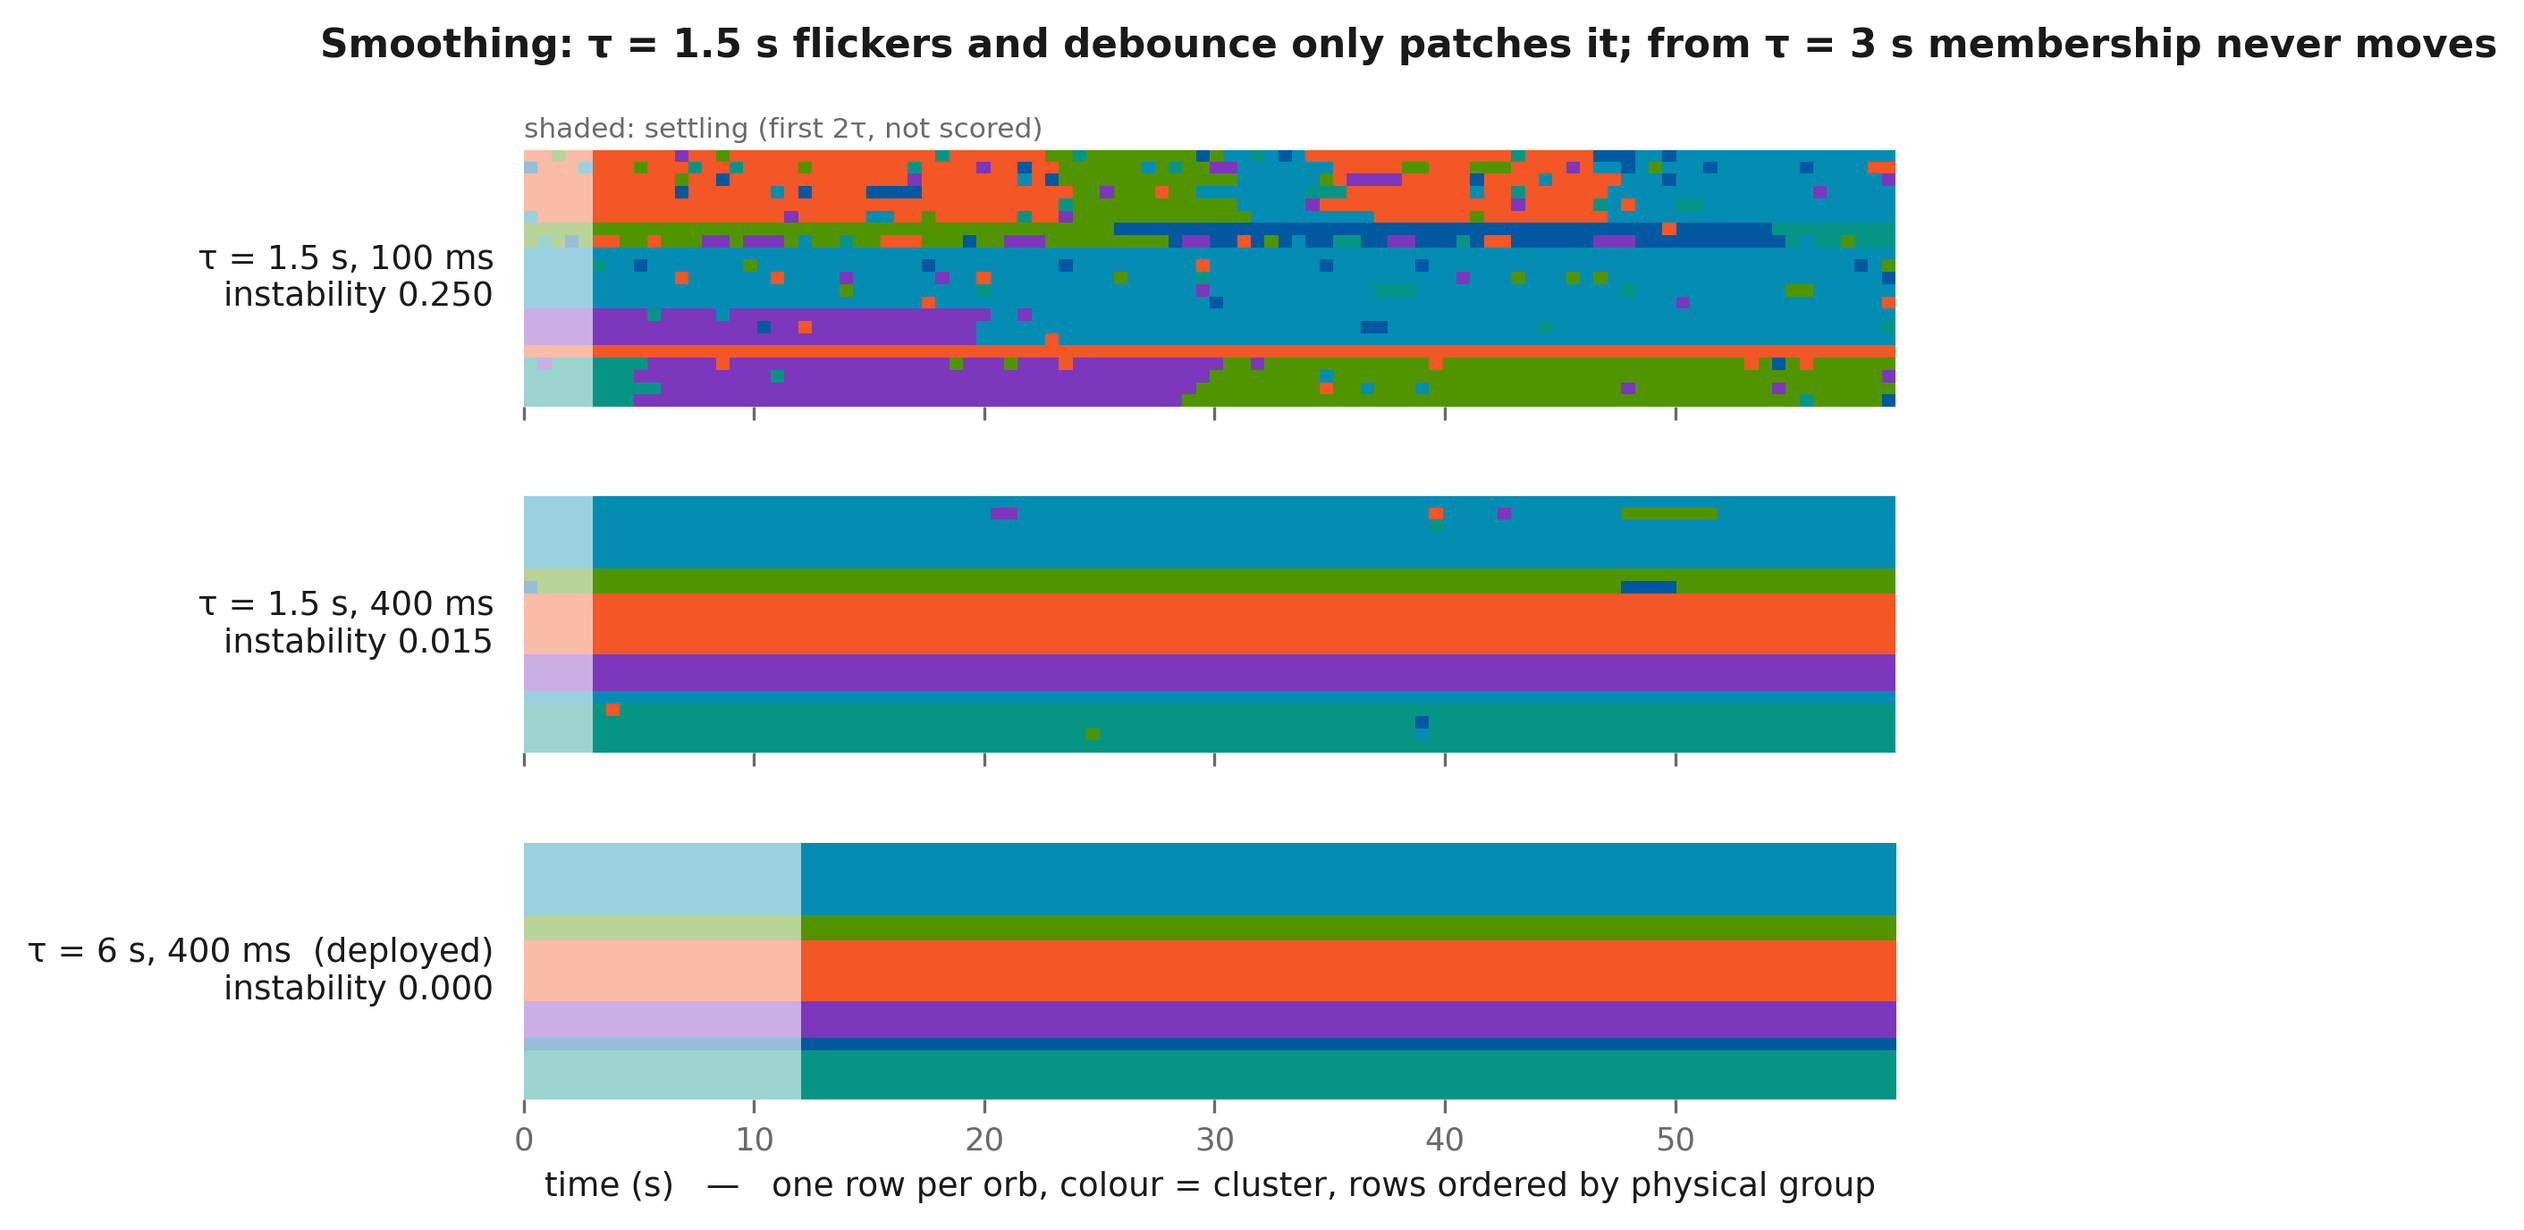
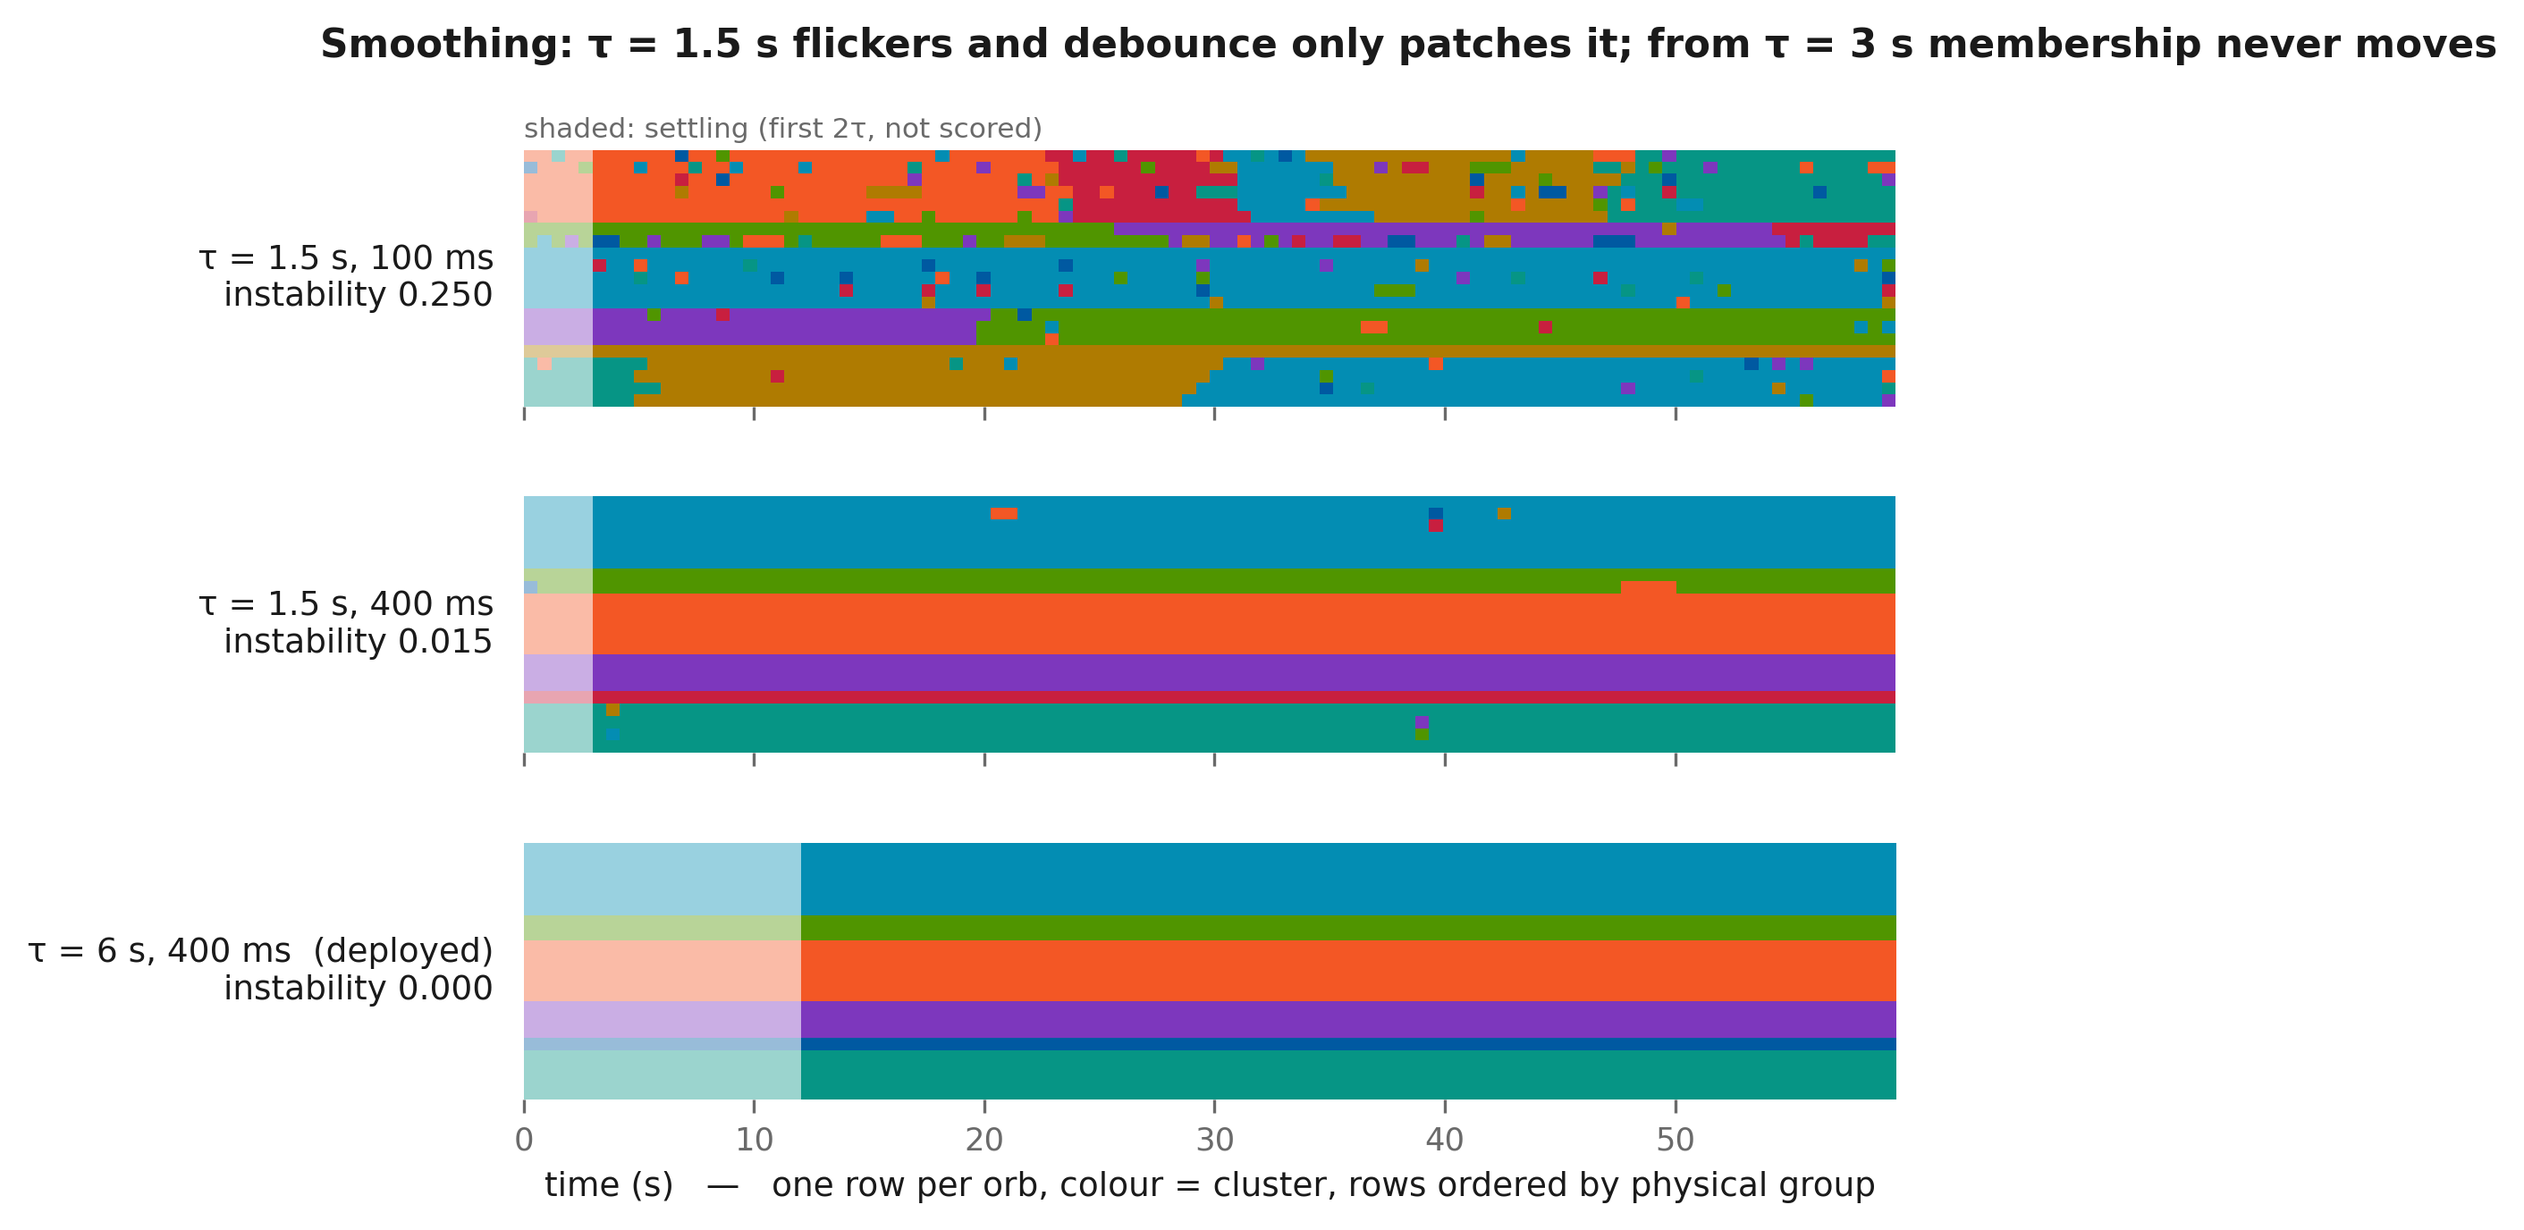
figures: handover raster and walk trace regenerate from the released E6/E7 data

diff --git a/tools/make_calibration_figs.py b/tools/make_calibration_figs.py
@@ -20,7 +20,8 @@ import matplotlib.image as mpimg
 SKY, CORAL, TEAL, PURPLE, GREEN6, NAVY, AMBER, CRIMSON = ("#038DB3", "#F35725", "#069585", "#7D37BD",
                                                       "#509500", "#0059A1", "#AF7B01", "#C81F3F")
 BLUE, VERM, GREEN, PURP = SKY, CORAL, TEAL, PURPLE          # role aliases used throughout
-RASTER6 = [SKY, CORAL, TEAL, PURPLE, GREEN6, NAVY]           # validated adjacent order
+RASTER8 = [SKY, CORAL, TEAL, PURPLE, GREEN6, NAVY, CRIMSON, AMBER]   # all eight logo faces; validated adjacent order, worst dE 8.9
+RASTER6 = RASTER8
 INK, MUTED, GRID = "#1a1a1a", "#6A6A6A", "#d8d8d8"           # MUTED is the logo's wordmark grey
 D = "data/calibration-2026"
 OUT = f"{D}/figs"
@@ -388,7 +389,7 @@ def fig_mds_embed(frame_index=12):
     """Same frame, two fits: classical MDS on the geodesic-filled matrix vs SMACOF on
     measured pairs only. Points coloured by the as-built physical group; hulls per group."""
     import sys
-    sys.path.insert(0, "visualiser"); sys.path.insert(0, "tools")  # public tree has both
+    sys.path.insert(0, "visualiser"); sys.path.insert(0, "tools")
     import mds_layout as M, mds_smacof as MS
     truth = json.load(open(f"{D}/E1_runs/truth_E1_4grp_wide_passA.json"))["as_built_serial_to_cluster"]
     path = f"{D}/topk_1782827542.jsonl"
@@ -483,8 +484,8 @@ def fig_e3_raster(cells=((1.5, 100, "τ = 1.5 s, 100 ms"), (1.5, 400, "τ = 1.5 
         # Okabe-Ito, all seven hues, ordered for maximum adjacent separation (validated);
         # transient singletons beyond seven wrap. Absent orbs are grey.
         from matplotlib.colors import ListedColormap
-        OI = ListedColormap(RASTER6)
-        ax.imshow(np.where(grid < 0, np.nan, grid % 6), aspect="auto", cmap=OI, interpolation="nearest", vmin=-0.5, vmax=5.5,
+        OI = ListedColormap(RASTER8)
+        ax.imshow(np.where(grid < 0, np.nan, grid % 8), aspect="auto", cmap=OI, interpolation="nearest", vmin=-0.5, vmax=7.5,
                   extent=[ts[0], ts[-1], len(orbs) - .5, -.5])
         ax.axvspan(ts[0], settle_end, color="white", alpha=0.6, lw=0)
         ax.set_yticks([]); ax.grid(False)
@@ -497,9 +498,208 @@ def fig_e3_raster(cells=((1.5, 100, "τ = 1.5 s, 100 ms"), (1.5, 400, "τ = 1.5 
     save(fig, "E3_raster.png")
 
 
+# ------------------------------------------------------------------ Endurance: a day in the life of the fleet
+def fig_endurance():
+    """Battery per orb over the 4 July festival day as a raster: one row per orb, 1-min
+    columns, colour = voltage (navy ramp), charging minutes overdrawn in amber. Thresholds
+    are the firmware's: deep sleep below 3.7 V when not charging, BATTERY_MIN 3.1 V."""
+    from matplotlib.colors import LinearSegmentedColormap
+    f = f"{D}/net_orb_festival_20260704.csv"
+    acc = {}; t0 = None
+    with open(f) as fh:
+        for row in csv.DictReader(fh):
+            try:
+                t = float(row["t_s"]); v = float(row["batt_v"]); ch = int(float(row["charging"]))
+            except Exception:
+                continue
+            if row["serial"].strip("0") == "" or v < 2.5: continue          # placeholder slot / no reading
+            t0 = t if t0 is None else t0
+            b = int((t - t0) // 60); e = acc.setdefault(row["serial"], {}).setdefault(b, [0.0, 0, 0])
+            e[0] += v; e[1] += 1; e[2] += ch
+    serials = sorted(acc, key=lambda k: min(acc[k]))          # first-out at the top
+    nb = max(max(d) for d in acc.values()) + 1
+    V = np.full((len(serials), nb), np.nan); C = np.zeros((len(serials), nb), bool)
+    for i, sN in enumerate(serials):
+        for b, (sv, n, sc) in acc[sN].items():
+            V[i, b] = sv / n; C[i, b] = sc / n > 0.5
+    fig, ax = plt.subplots(figsize=(7.2, 4.2))
+    cmap = LinearSegmentedColormap.from_list("batt", [CORAL, "#BFD9EA", NAVY])   # low = coral, full = navy; blank = not heard
+    im = ax.imshow(V, aspect="auto", cmap=cmap, vmin=3.2, vmax=4.2, interpolation="nearest",
+                   extent=[0, nb / 60, len(serials) - .5, -.5])
+    # charging minutes: amber overlay
+    ys, xs = np.where(C)
+    ax.scatter(xs / 60 + 1 / 120, ys, s=6, marker="s", color=AMBER, linewidths=0, zorder=3)
+    low = np.nanmin(V, axis=1)
+    ax.set_yticks(range(len(serials))); ax.set_yticklabels([f"{sN[-4:]}  {lo:.2f} V" for sN, lo in zip(serials, low)], fontsize=6.5)
+    ax.tick_params(axis="y", length=0)
+    ax.set_xlabel("time since first orb out (h)")
+    ax.set_title(f"A festival day: {len(serials)} orbs over {nb/60:.1f} h — blank = not heard (docked or asleep), amber = on charge", loc="left", fontsize=10)
+    cb = fig.colorbar(im, ax=ax, fraction=0.03, pad=0.01); cb.set_label("battery (V)   ·   3.7 V = deep sleep if not charging", fontsize=8); cb.ax.tick_params(labelsize=7)
+    cb.ax.axhline(3.7, color=INK, lw=1.5)
+    ax.grid(False)
+    for sp in ax.spines.values(): sp.set_visible(False)
+    save(fig, "endurance_keynsham.png")
+
+
+# ------------------------------------------------------------------ E4 as a per-orb fairness raster
+def fig_e4_fairness():
+    """Who starves. One row per orb, x = orbs in play as the sweep steps down, colour = that
+    orb's miss rate at that level. Fixed 50 Hz above, adaptive rate below."""
+    from matplotlib.colors import LinearSegmentedColormap
+    arms = [("fixed 50 Hz", "network_testing/captures/net_orb_1782915562_e4_fixed50.csv"),
+            ("adaptive rate", f"{D}/net_orb_e4_autorate.csv")]
+    data = {}
+    for lab, f in arms:
+        acc = {}
+        rows_iter = (row for path in f.split("|") for row in csv.DictReader(open(path)))
+        if True:
+            for row in rows_iter:
+                try:
+                    n = int(row["eligible_orbs"]); m = float(row["missed"])
+                except Exception:
+                    continue
+                if int(float(row.get("eligible", 1))) == 0: continue
+                e = acc.setdefault(row["serial"], {}).setdefault(n, [0.0, 0]); e[0] += m; e[1] += 1
+        data[lab] = acc
+    serials = sorted(set().union(*[set(d) for d in data.values()]))
+    levels = sorted(set().union(*[set(k for d in a.values() for k in d) for a in data.values()]))
+    cmap = LinearSegmentedColormap.from_list("miss", ["#F2F2F2", CORAL])
+    fig, axes = plt.subplots(2, 1, figsize=(7.0, 5.2), sharex=True, gridspec_kw=dict(hspace=0.25))
+    for ax, (lab, _) in zip(axes, arms):
+        acc = data[lab]; M = np.full((len(serials), len(levels)), np.nan)
+        for i, sN in enumerate(serials):
+            for j, n in enumerate(levels):
+                e = acc.get(sN, {}).get(n)
+                if e and e[1] >= 20: M[i, j] = e[0] / e[1]
+        im = ax.imshow(M, aspect="auto", cmap=cmap, vmin=0, vmax=1, interpolation="nearest",
+                       extent=[levels[0] - .5, levels[-1] + .5, len(serials) - .5, -.5])
+        mean = np.nanmean(M, axis=0)
+        ax.set_ylabel(f"{lab}\n({len(serials)} orbs, one row each)", fontsize=9)
+        ax.set_yticks([]); ax.grid(False)
+        for sp in ax.spines.values(): sp.set_visible(False)
+        ax.text(1.01, 0.5, f"mean miss at full fleet {np.nanmax(mean):.2f}", transform=ax.transAxes, fontsize=8, color=INK, va="center", rotation=90)
+    axes[-1].set_xlabel("orbs in play (sweep steps down from the full fleet)")
+    axes[-1].invert_xaxis()
+    cb = fig.colorbar(im, ax=axes, fraction=0.025, pad=0.06); cb.set_label("per-orb packet miss", fontsize=8); cb.ax.tick_params(labelsize=7)
+    fig.suptitle("Who starves: at 50 Hz the same orbs lose their feedback; the adaptive rate keeps every row pale",
+                 x=0.01, ha="left", fontsize=10.5, fontweight="bold")
+    save(fig, "E4_fairness.png")
+
+
+# ------------------------------------------------------------------ E7 as a walk
+def fig_e7_walk():
+    """One carried orb, two circuits of the three stations: strength to each anchor over
+    time, and the strongest anchor as a station strip beneath."""
+    import gzip as _gz
+    f = f"{D}/E7_runs/walks/walk_20260825-1616_0718a0_prox.csv.gz"
+    names = {"006dc4": ("left", SKY), "0069a4": ("right", CORAL), "006740": ("back", TEAL)}
+    series = {k: ([], []) for k in names}
+    for line in _gz.open(f, "rt"):
+        p = line.strip().split(",")
+        if len(p) < 4 or p[1] not in names: continue
+        try: series[p[1]][0].append(float(p[0])); series[p[1]][1].append(float(p[3]))
+        except Exception: pass
+    t0 = min(v[0][0] for v in series.values()); T_END = 230.0      # the two circuits; the orb is set down at "left" after
+    for k in series:
+        keep = [i for i, t in enumerate(series[k][0]) if t - t0 <= T_END]
+        series[k] = ([series[k][0][i] for i in keep], [series[k][1][i] for i in keep])
+    fig, (a, b) = plt.subplots(2, 1, figsize=(7.2, 3.8), sharex=True, gridspec_kw=dict(height_ratios=[3, 1], hspace=0.12))
+    for k, (lab, col) in names.items():
+        t = [x - t0 for x in series[k][0]]; y = series[k][1]
+        a.plot(t, y, "-", color=col, lw=1.4)
+        a.text(t[-1] + 2, y[-1] + {"left": 6, "right": -9, "back": 7}[lab], lab, color=col, fontsize=9, va="center", fontweight="bold")
+    a.axhspan(180, 255, color=GRID, alpha=0.4, lw=0); a.text(1, 246, "at-station band (180–226 in the notes)", fontsize=7.5, color=MUTED, va="top")
+    a.set_ylabel("link strength to each anchor"); a.set_ylim(100, 260)
+    a.set_title("A carried orb, two circuits of three stations: the strongest anchor names the station", loc="left")
+    tidy(a)
+    # station strip: argmax at each common timestamp
+    ts = sorted(set(series["006dc4"][0]) & set(series["0069a4"][0]) & set(series["006740"][0]))
+    look = {k: dict(zip(series[k][0], series[k][1])) for k in names}
+    keys = list(names); best = [max(keys, key=lambda k: look[k][t]) for t in ts]
+    cols = [names[k][1] for k in best]
+    b.bar([t - t0 for t in ts], [1] * len(ts), width=(ts[1] - ts[0]) * 1.05 if len(ts) > 1 else 1, color=cols, linewidth=0)
+    b.set_yticks([]); b.set_ylim(0, 1); b.grid(False)
+    for sp in b.spines.values(): sp.set_visible(False)
+    b.set_ylabel("station\n(argmax)", rotation=0, ha="right", va="center", fontsize=8)
+    b.set_xlabel("time (s)")
+    save(fig, "E7_walk.png")
+
+
+# ------------------------------------------------------------------ E6 as a handover raster
+def fig_e6_raster(run="e6_20260908-130607_c0_to_c3.jsonl.gz"):
+    """The server-loss event per orb: bands under the server, the broadcast gap as blank
+    columns, bands resuming standalone, then every row going dark at the 30 s sleep.
+    Membership reconstructed from the sniffer's per-orb peer views with the shipped
+    selector, exactly as e6_handover.py scores it."""
+    import sys
+    sys.path.insert(0, "tools")
+    import e6_handover as H
+    meta, _, frames = H.load(f"{D}/E6_runs/raw/{run}", exclude=frozenset(H.anchor_serials()))
+    import glob as _glob
+    stem = run.split("_", 2)[2].replace(".jsonl.gz", "")            # e.g. c0_to_c3
+    mfile = sorted(_glob.glob(f"{D}/E6_runs/e6_marks_{stem}_[0-9]*.json"))[-1]   # [0-9] so c0_to_c3 does not match c0_to_c3_wide
+    print(f"    marks from {mfile.split('/')[-1]}")
+    M = json.load(open(mfile)); cap0 = M["capture_started"]
+    mats = H.matrices(frames); parts = H.partitions(mats, floor=meta.get("floor", 200) if isinstance(meta, dict) else 200)
+    t0 = frames[0]["t"]
+    sers = sorted({s for _, ss, _ in mats for s in ss})
+    truth = json.load(open(f"{D}/E1_runs/E2_ground_truth.json"))
+    sers.sort(key=lambda k: (truth.get(k, 9), k))
+    ts = [p[0] - t0 for p in parts]
+    # labels per window: flood() may return dict serial->id or list of sets
+    def as_dict(part):
+        if isinstance(part, dict): return part
+        return {s: i for i, grp in enumerate(part) for s in grp}
+    grid = np.full((len(sers), len(parts)), -1); prev_members = {}; prev_colour = {}; nxt = 0
+    for j, (t, part, thr) in enumerate(parts):
+        lab = as_dict(part); members = {}
+        for i, sN in enumerate(sers):
+            c = lab.get(sN)
+            if c is None: continue
+            members.setdefault(c, set()).add(i)
+        colour = {}; taken = set()
+        for c, mem in sorted(members.items(), key=lambda kv: -len(kv[1])):
+            best, ov = None, 0
+            for pc, pm in prev_members.items():
+                o = len(mem & pm)
+                if o > ov and prev_colour[pc] not in taken: best, ov = pc, o
+            colour[c] = prev_colour[best] if best is not None else nxt
+            if best is None: nxt += 1
+            taken.add(colour[c])
+            for i in mem: grid[i, j] = colour[c]
+        prev_members, prev_colour = members, colour
+    from matplotlib.colors import ListedColormap
+    fig, ax = plt.subplots(figsize=(7.4, 3.6))
+    # draw as per-window columns so gaps in broadcast show as blank, not stretched
+    W = H.WINDOW_S
+    for j, t in enumerate(ts):
+        col = grid[:, j]
+        for i, c in enumerate(col):
+            if c >= 0:
+                ax.add_patch(plt.Rectangle((t, i - .5), W, 1, color=RASTER8[c % 8], lw=0))
+    t_end = M["finished"] - t0
+    ax.set_xlim(-2, t_end + 2); ax.set_ylim(len(sers) - .5, -.5)
+    ax.set_yticks([]); ax.grid(False)
+    for sp in ax.spines.values(): sp.set_visible(False)
+    events = [("C1_departure_SIGSTOP", "server stopped"), ("C3_return_SIGCONT", "server returned"), ("finished", "end")]
+    for key, lab in events:
+        mt = M[key] - t0
+        ax.axvline(mt, color=INK, lw=1, ls=":")
+        ax.text(mt + 1.5, -0.6, lab, fontsize=8, color=INK, va="bottom")
+    t_stop = M["C1_departure_SIGSTOP"] - t0; last_heard = ts[-1] + W
+    ax.annotate(f"fleet asleep from {last_heard - t_stop:.0f} s after the stop —\nand still asleep when the server returned",
+                xy=(last_heard + 2, len(sers) / 2), xytext=(t_stop + 80, len(sers) / 2), fontsize=8.5, color=INK, va="center",
+                arrowprops=dict(arrowstyle="->", color=MUTED, lw=.9))
+    ax.annotate("handover gap 0.96 s", xy=(t_stop + 0.5, 0.5), xytext=(t_stop + 8, 2.6), fontsize=8, color=INK,
+                arrowprops=dict(arrowstyle="->", color=MUTED, lw=.9))
+
+    ax.set_xlabel("time (s)   —   one row per orb, colour = cluster; blank = no broadcast heard")
+    ax.set_title("Server loss, per orb: a one-second gap, 30 s of standalone clustering, then the fleet sleeps and stays asleep", loc="left", fontsize=10, pad=18)
+    save(fig, "E6_raster.png")
+
 
 if __name__ == "__main__":
-    for fn in (fig_churn_v2, fig_e2_v2, fig_e3, fig_e6_v2, fig_e7_v2, fig_e4_v2, fig_sat_v2, fig_e1_v2, fig_e5_v2, fig_mds, fig_mds_embed, fig_e3_raster):
+    for fn in (fig_churn_v2, fig_e2_v2, fig_e3, fig_e6_v2, fig_e7_v2, fig_e4_v2, fig_sat_v2, fig_e1_v2, fig_e5_v2, fig_mds, fig_mds_embed, fig_e3_raster, fig_endurance, fig_e4_fairness, fig_e7_walk, fig_e6_raster):
         try:
             fn()
         except FileNotFoundError as e:

diff --git a/tools/e6_handover.py b/tools/e6_handover.py
@@ -2,7 +2,7 @@
 """e6_handover.py — E6 analysis: what the fleet does when the server goes silent.
 
 Consumes the sniffer captures written by tools/e6_capture.py and reports the
-measures in data/calibration-2026/E6_HANDOVER_PROTOCOL.md section 4.
+measures in docs/Frontiers HSI 2026/E6_HANDOVER_PROTOCOL.md section 4.
 
     python3 tools/e6_handover.py analyse                 # all runs in E6_runs/raw
     python3 tools/e6_handover.py analyse --run e6_*.jsonl.gz
